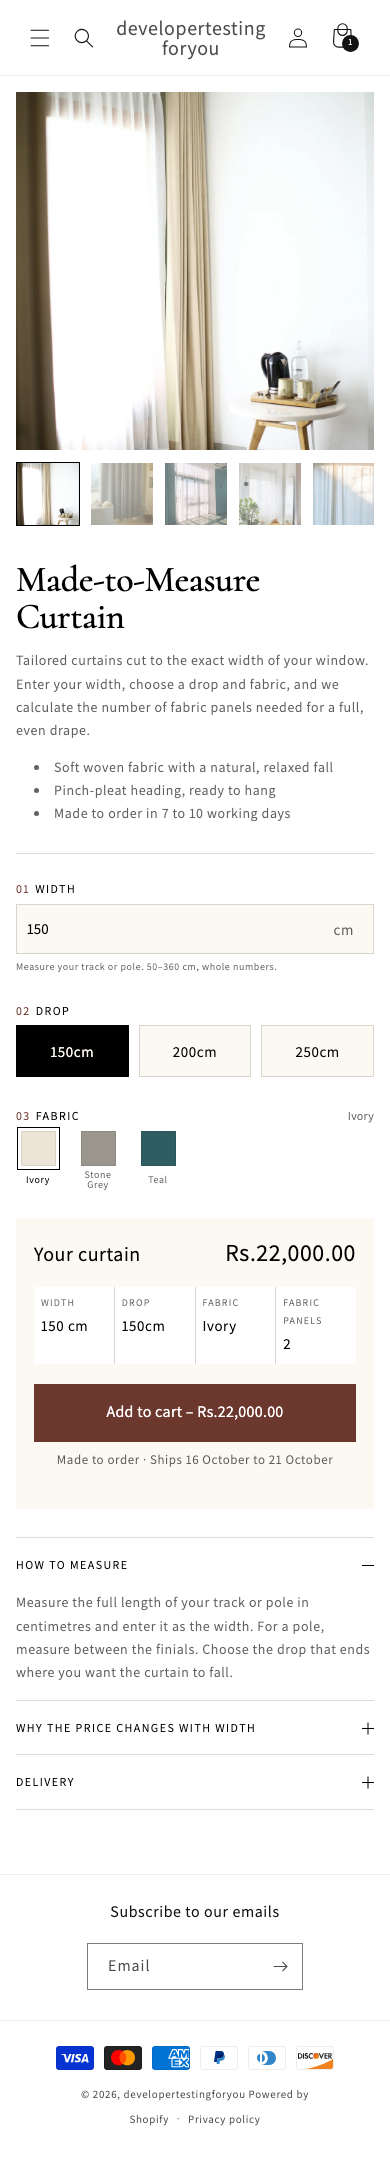
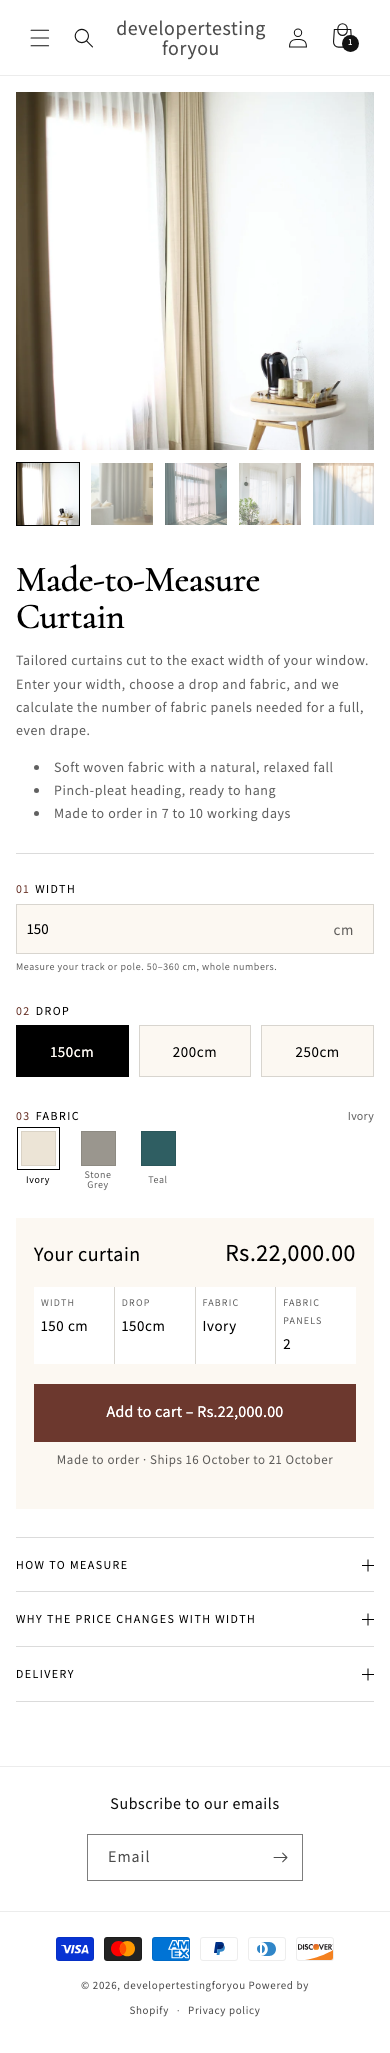
Animate collapsible rows as an accordion and add a curtain hover button
- Rows slide open and closed, only one stays open, all start closed
- Add to cart button drops a pleated curtain with a scalloped hem on hover,
  colored by a new "Button hover curtain" setting

diff --git a/assets/curtain-configurator.css b/assets/curtain-configurator.css
@@ -454,7 +454,7 @@
   width: 100%;
   height: 5.8rem;
   padding: 0 2rem;
-  border: 0;
+  border: 1px solid var(--cc-accent);
   background: var(--cc-accent);
   color: #fff;
   font: inherit;
@@ -463,11 +463,42 @@
   letter-spacing: 0.02em;
   font-variant-numeric: tabular-nums;
   cursor: pointer;
-  transition: background-color 0.25s ease, transform 0.15s ease, opacity 0.25s ease;
+  overflow: hidden;
+  isolation: isolate;
+  transition: color 0.42s ease 0.18s, transform 0.15s ease, opacity 0.25s ease;
 }
 
-.cc__submit:hover:not(:disabled) {
-  background: color-mix(in srgb, var(--cc-accent) 86%, #000);
+/* A pleated curtain with a scalloped hem drops over the button on hover. */
+.cc__submit::before {
+  content: '';
+  position: absolute;
+  top: 0;
+  left: 0;
+  z-index: -1;
+  width: 100%;
+  height: 115%;
+  background:
+    repeating-linear-gradient(
+      90deg,
+      rgba(255, 255, 255, 0.35) 0 4px,
+      color-mix(in srgb, var(--cc-accent) 10%, transparent) 4px 9px,
+      rgba(255, 255, 255, 0.15) 9px 13px
+    ),
+    var(--cc-curtain);
+  transform: translateY(-101%);
+  transition: transform 0.7s cubic-bezier(0.77, 0, 0.18, 1);
+  -webkit-mask: radial-gradient(9px 7px at 50% 100%, #0000 98%, #000) 50% 100% / 18px 100% repeat-x;
+  mask: radial-gradient(9px 7px at 50% 100%, #0000 98%, #000) 50% 100% / 18px 100% repeat-x;
+}
+
+.cc__submit:hover:not(:disabled),
+.cc__submit:focus-visible {
+  color: var(--cc-accent);
+}
+
+.cc__submit:hover:not(:disabled)::before,
+.cc__submit:focus-visible::before {
+  transform: translateY(0);
 }
 
 .cc__submit:active:not(:disabled) {
@@ -500,8 +531,8 @@
 .cc__spinner {
   width: 2rem;
   height: 2rem;
-  border: 2px solid rgba(255, 255, 255, 0.35);
-  border-top-color: #fff;
+  border: 2px solid color-mix(in srgb, currentColor 35%, transparent);
+  border-top-color: currentColor;
   border-radius: 50%;
   opacity: 0;
 }
@@ -587,7 +618,7 @@
   transform: rotate(90deg);
 }
 
-.cc__row[open] .cc__row-icon::after {
+.cc__row.is-open .cc__row-icon::after {
   transform: rotate(0);
 }
 

diff --git a/assets/curtain-configurator.js b/assets/curtain-configurator.js
@@ -32,6 +32,17 @@ class CurtainConfigurator extends HTMLElement {
     );
     window.addEventListener('resize', setHeaderHeight);
 
+    this.rows = [...this.querySelectorAll('.cc__row')];
+    this.rows.forEach((row) =>
+      row.querySelector('summary').addEventListener('click', (event) => {
+        event.preventDefault();
+        this.toggleRow(row, !row.classList.contains('is-open'));
+      })
+    );
+    this.addEventListener('shopify:block:select', (event) => {
+      if (this.rows.includes(event.target)) this.toggleRow(event.target, true);
+    });
+
     // Blocks can be removed in the theme editor, so stop if a required one is missing.
     this.form = this.querySelector('form');
     const config = this.querySelector('[data-config]');
@@ -69,6 +80,28 @@ class CurtainConfigurator extends HTMLElement {
     const start = addDays(Number(minDays), workingDaysOnly);
     const end = addDays(Math.max(Number(minDays), Number(maxDays)), workingDaysOnly);
     note.textContent = deliveryNote.replace('[start]', formatDay(start)).replace('[end]', formatDay(end));
+  }
+
+  // Animates the row's height. The details element stays open until the closing animation ends.
+  toggleRow(row, open) {
+    if (open) this.rows.forEach((other) => other !== row && other.classList.contains('is-open') && this.toggleRow(other, false));
+
+    const startHeight = row.offsetHeight;
+    row.animation?.cancel();
+    row.classList.toggle('is-open', open);
+    row.open = true;
+    const endHeight = open ? row.offsetHeight : row.offsetHeight - row.querySelector('.cc__row-content').offsetHeight;
+
+    row.style.overflow = 'hidden';
+    row.animation = row.animate(
+      { height: [`${startHeight}px`, `${endHeight}px`] },
+      { duration: window.matchMedia('(prefers-reduced-motion: reduce)').matches ? 0 : 350, easing: 'cubic-bezier(0.2, 0.7, 0.2, 1)' }
+    );
+    row.animation.onfinish = () => {
+      row.open = open;
+      row.style.overflow = '';
+      row.animation = null;
+    };
   }
 
   onInput(event) {

diff --git a/README.md b/README.md
@@ -226,7 +226,11 @@ Every part of the product column is its own block, so it can be reordered, remov
 | Fabric picker | Label | Shows the Fabric swatch blocks, or the Color values if there are none |
 | Fabric swatch | Color option value, swatch color, optional fabric image | One per color. The value must match the variant's Color value exactly |
 | Price and add to cart | Title, panel count visibility, note, delivery days, working days only | The summary card and button |
-| Collapsible row | Heading, content, open by default | Add as many as needed. The template has three under the button |
+| Collapsible row | Heading, content, open by default | Add as many as needed. The template has three under the button, all closed |
+
+Collapsible rows slide open and closed, and only one stays open at a time. Opening a row closes any other open row. Selecting a row's block in the theme editor opens it.
+
+The add to cart button uses a curtain hover: a pleated curtain with a scalloped hem drops over the button, and the label turns to the accent color. The curtain color is the **Button hover curtain** section setting.
 
 The step numbers 01, 02 and 03 come from a CSS counter, so they follow the block order. The script stops quietly if the width, drop, fabric or add to cart block is removed, and the gallery keeps working.
 
@@ -235,14 +239,14 @@ The step numbers 01, 02 and 03 come from a CSS counter, so they follow the block
 **Section settings.**
 - **Gallery:** image ratio. On desktop the main image fills the screen below the header, with thumbnails in a column on its left. On tablet and mobile the ratio applies, and on mobile the thumbnails move under the image.
 - **Configuration:** default width, and the names of the Color, Drop and Panels options.
-- **Style:** heading font, background, alternative background for the summary card, inputs and image backdrop, text and accent colors.
+- **Style:** heading font, background, alternative background for the summary card, inputs and image backdrop, text, accent, and the button hover curtain color.
 - **Spacing:** top and bottom padding, and the column gap.
 
 The section only appears on product templates. It shows a setup notice in the editor if the metafield or the options are missing.
 
 ## Testing
 
-`tests/e2e/run.mjs` runs 46 checks against a live preview:
+`tests/e2e/run.mjs` runs 49 checks against a live preview:
 
 - **Rendering:** no Panels control on the page, and no Dawn product form.
 - **Pricing:** price and panel count at every tier boundary, from 50 to 360 cm.
@@ -250,6 +254,7 @@ The section only appears on product templates. It shows a setup notice in the ed
 - **Delivery dates:** the note shows the dates 7 and 10 working days from today.
 - **Interaction:** color swaps the gallery image, and arrow keys move through the swatches.
 - **Layout:** thumbnails to the left of the main image, the main image filling the screen below the header, three collapsible rows under the button, zero layout shift, and no horizontal overflow at tablet and mobile widths.
+- **Interaction:** rows start closed and only one opens at a time, and the button curtain covers the button on hover.
 - **Cart:** the exact `/cart/add.js` payload, the drawer contents, the cart page contents, and the cart line read back from `/cart.js`.
 - **Errors:** a simulated 422 response and a simulated network failure.
 
